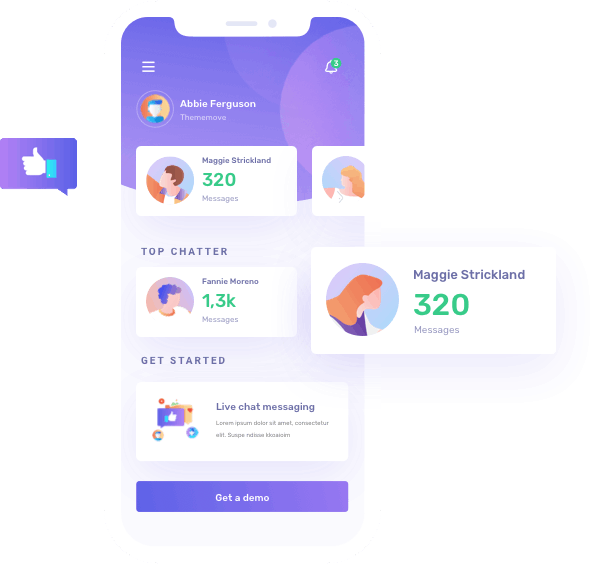
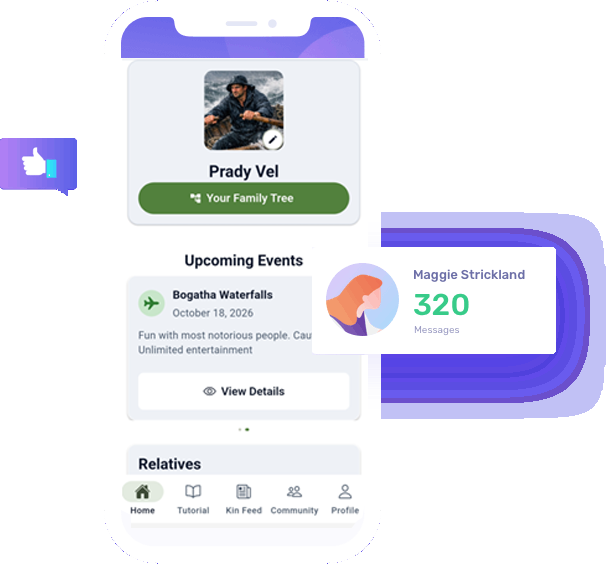
images

diff --git a/speedarp/index.html b/speedarp/index.html
@@ -312,23 +312,23 @@
                 <div class="slider-head">
                     <div class="screenshort-slider">
                         <div class="single-slider">
-                            <img src="assets/images/image6.png" alt="App screenshot 1">
+                            <img src="assets/images/image1.png" alt="App screenshot 1">
                         </div>
 
                         <div class="single-slider">
-                            <img src="assets/images/image6.png" alt="App screenshot 2">
+                            <img src="assets/images/image2.png" alt="App screenshot 2">
                         </div>
 
                         <div class="single-slider">
-                            <img src="assets/images/image6.png" alt="App screenshot 3">
+                            <img src="assets/images/image3.png" alt="App screenshot 3">
                         </div>
 
                         <div class="single-slider">
-                            <img src="assets/images/image6.png" alt="App screenshot 4">
+                            <img src="assets/images/image4.png" alt="App screenshot 4">
                         </div>
 
                         <div class="single-slider">
-                            <img src="assets/images/image6.png" alt="App screenshot 5">
+                            <img src="assets/images/image5.png" alt="App screenshot 5">
                         </div>
 
                         <div class="single-slider">
@@ -336,8 +336,9 @@
                         </div>
 
                         <div class="single-slider">
-                            <img src="assets/images/image6.png" alt="App screenshot 7">
+                            <img src="assets/images/image7.png" alt="App screenshot 7">
                         </div>
+						   
                     </div>
                 </div>
             </div>
